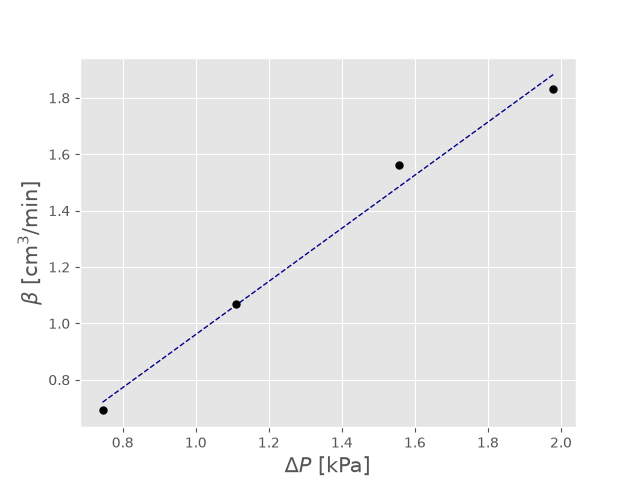
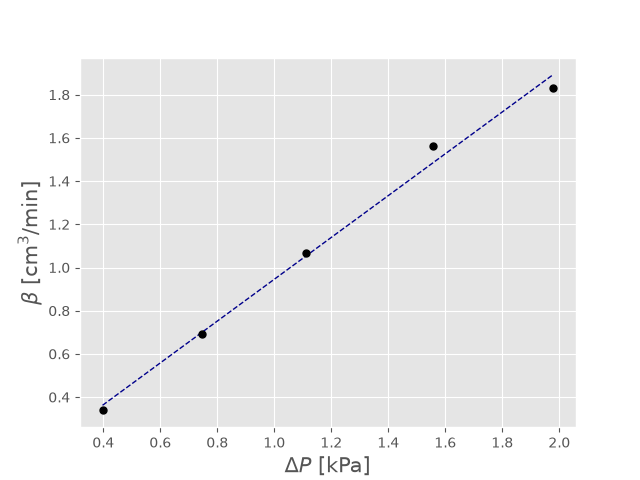
ora veramente (forse)

diff --git a/tenuta_cilindro.py b/tenuta_cilindro.py
@@ -26,8 +26,8 @@ df_beta = pd.DataFrame({
     "d_beta": [],
 })
 
-for i in range(1, 5):
-    data_vol = converti(f"./misure/Tenuta_cilindro/posizione_senza_termometro/{i+1}.txt")
+for i in range(0, 5):
+    data_vol = converti(f"./misure/Tenuta_cilindro/posizione/{i+1}.txt")
     data_vol["Posizione(m)"] = -data_vol["Posizione(m)"]*1.e2 # converto in cm ed inverto
     if (i == 4):
         data_vol = data_vol.drop(data_vol[(data_vol['Tempo(s)'] > 80)].index)
@@ -54,7 +54,7 @@ for i in range(1, 5):
     # plt.show()
 
     # Ricava la superficie
-    data_p = converti(f"./misure/Tenuta_cilindro/pressione_senza_termometro/{i+1}.txt")
+    data_p = converti(f"./misure/Tenuta_cilindro/pressione/{i+1}.txt")
     P = data_p["Pressione(kPa)"].mean() # media
     dP = np.sqrt(0.005**2 + (data_p["Pressione(kPa)"].std(ddof=1)**2)/data_p.__len__()) #kPa
 
@@ -78,7 +78,7 @@ fit_beta_ws = LinearFit(df_beta, "P", "beta")
 
 fig, ax = plt.subplots()
 fit_beta_ws.graph(ax, ("$\\Delta P$ [kPa]", "$\\beta$ [cm$^3$/min]"), 5, 15)
-plt.savefig("./immagini/tenuta_cilindro/senza_termometro/beta.png")
+plt.savefig("./immagini/tenuta_cilindro/con_termometro/beta.png")
 plt.show()
 
 # Aggiorno le sigma con il metodo dei residui
@@ -90,6 +90,7 @@ print(df_beta)
 fig, ax = plt.subplots()
 fit_beta = LinearFit(df_beta, "P", "beta", "d_beta")
 fit_beta.graph(ax, ("$\\Delta P$ [kPa]", "$\\beta$ [cm$^3$/min]"), 5, 15)
+plt.savefig("./immagini/tenuta_cilindro/con_termometro/beta_con_sigma.png")
 plt.show()
 
 print("chi2 = ", fit_beta.get_chi2().chi2)
